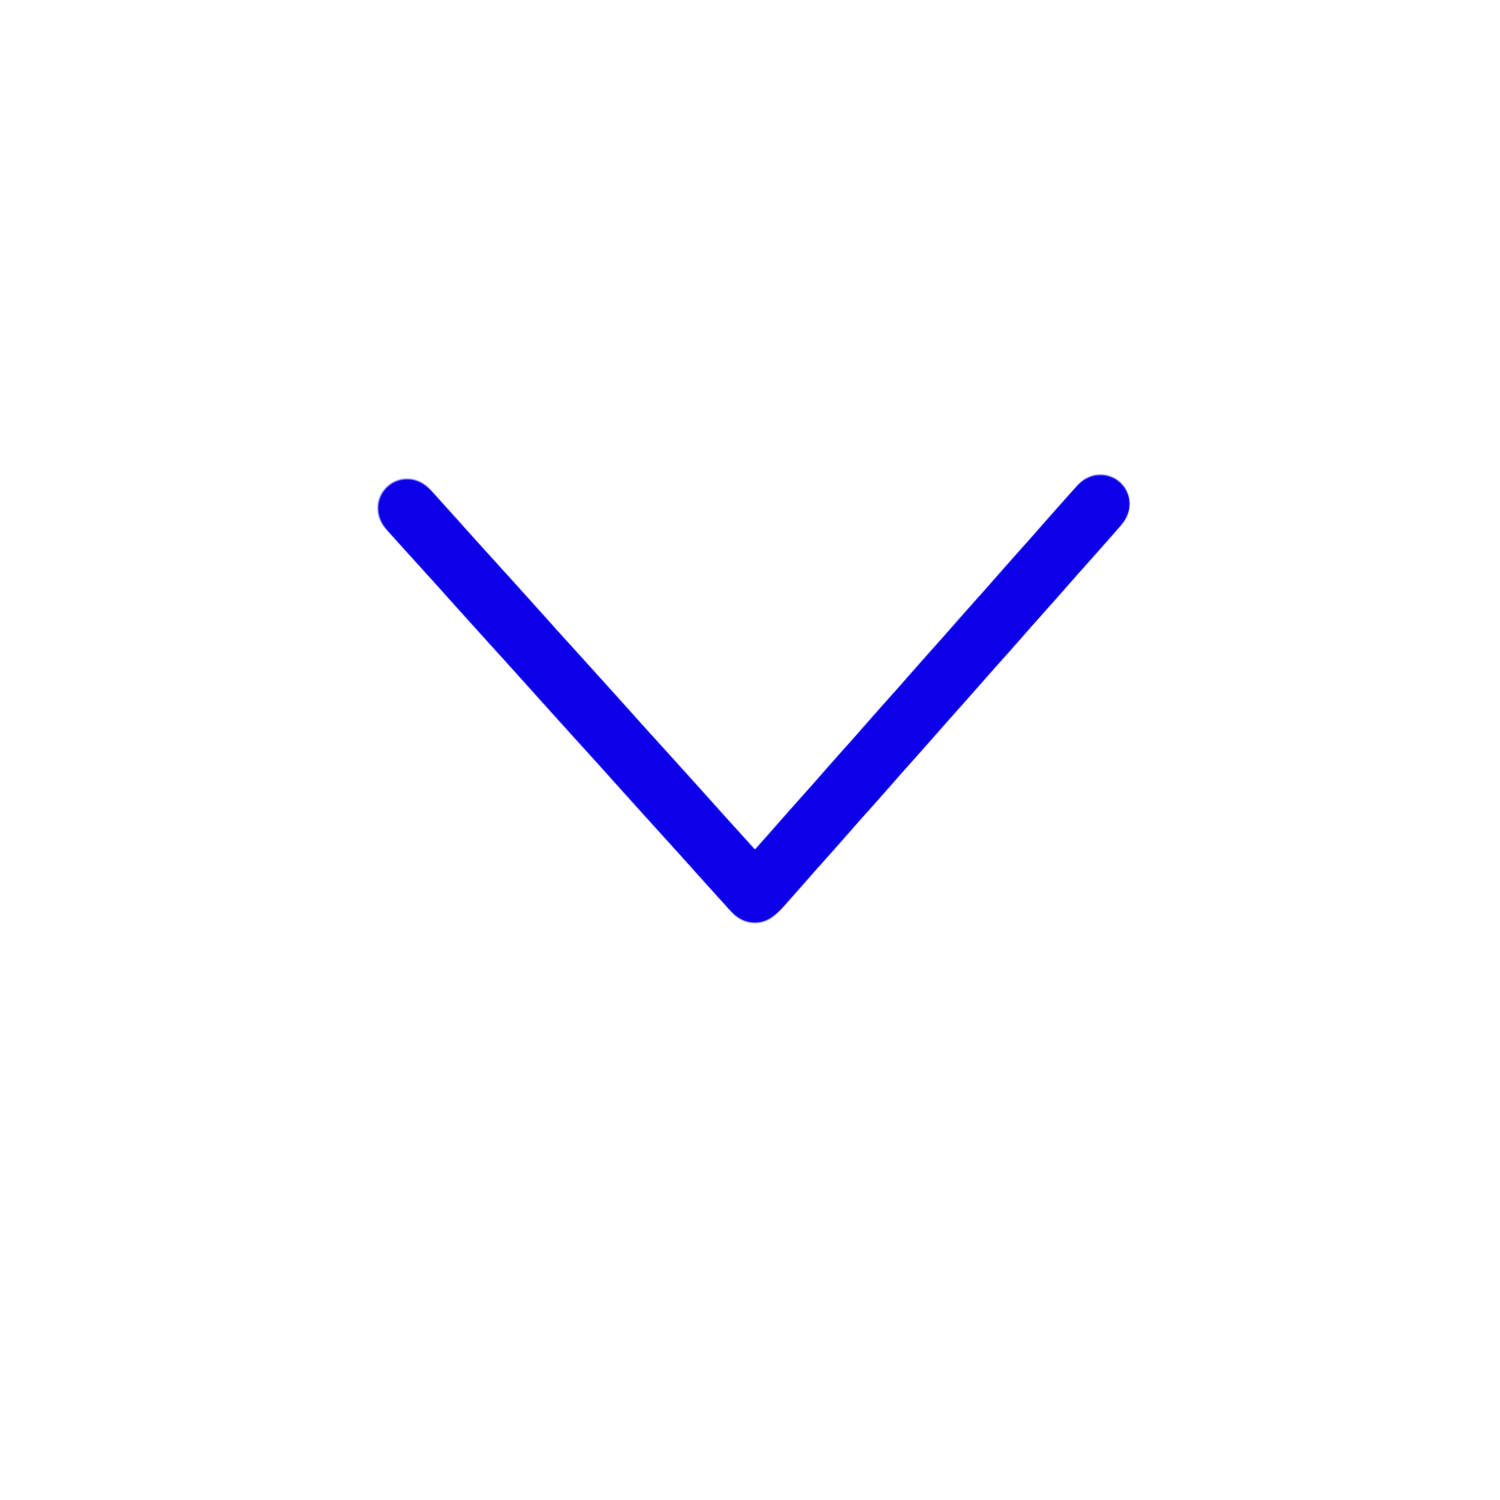
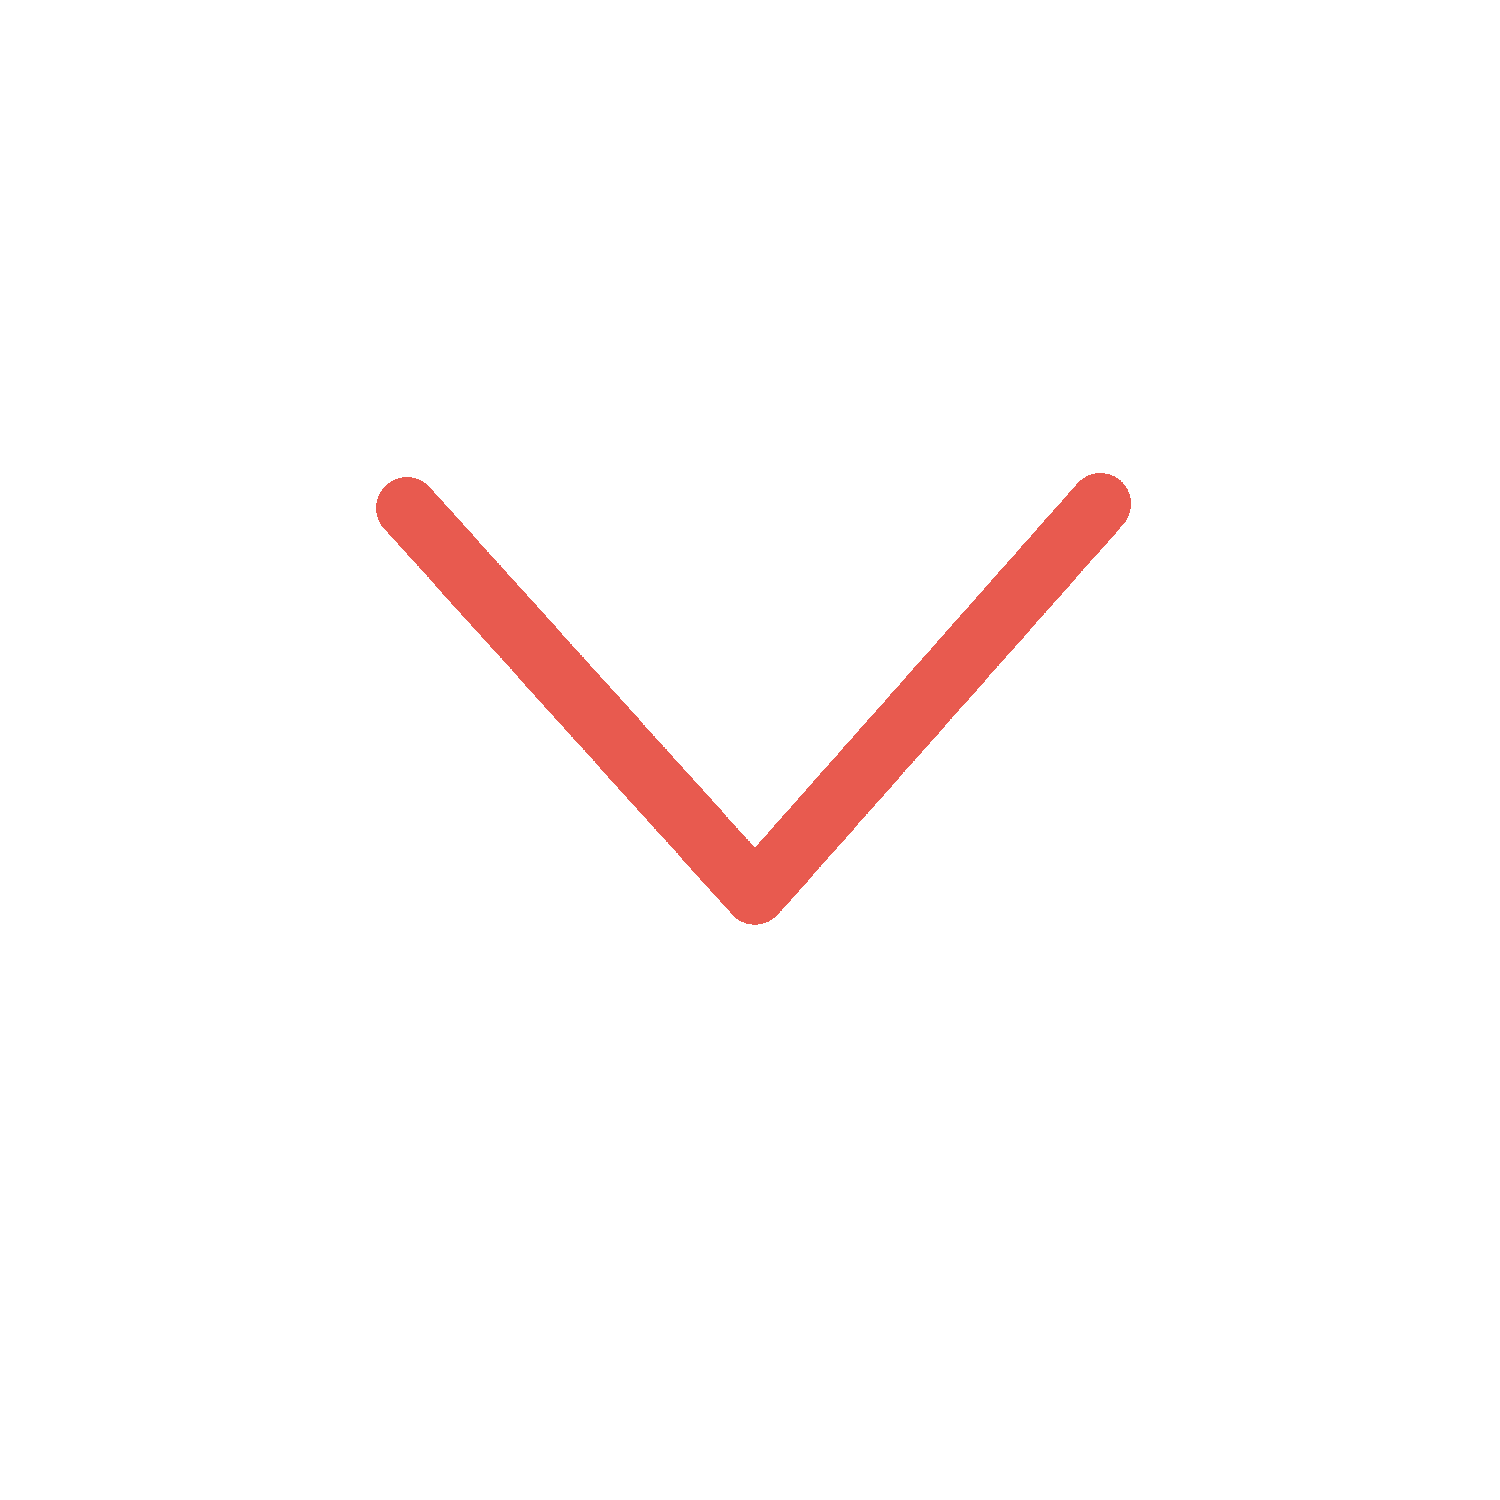
major style additions

Changed region(s): [[0.2453, 0.3067, 0.7667, 0.6133]]

diff --git a/html/main.html b/html/main.html
@@ -9,17 +9,17 @@
 <body>
 	<div class="main">
 		<div class="top-block">
-			<h1>CB MEDIA</h1>
-			<h2 style="font-style: italic; text-align: center;">Your new friend in social media</h2>
+			<h1 id="header" class="title-h1" style=";"></h1>
+			<h2 id="subheader" class="title-h2" style=";"></h2>
+			<img src="../img/arrow.png" class="arrow-img">
 		</div>
 		<div class="bar">
-			<a href="" class="bar-button"><h2 class="bar-button">Our Work</h2></a>
+			<a href="#accomplishments" class="bar-button"><h2 class="bar-button">Our Work</h2></a>
 			<a href="" class="bar-button"><h2 class="bar-button" style="font-size: 29px;">Home</h2></a>
-			<a href="" class="bar-button"><h2 class="bar-button">About Us</h2></a>
+			<a href="#about" class="bar-button"><h2 class="bar-button">About Us</h2></a>
 		</div>
-		<img src="../img/arrow.png" class="arrow-img">
-		<div class="block" style="padding-top: 4%; padding-bottom: 4%; border: 2px solid black; border-radius: 30px;">
-			<h2>Our Mission</h2>
+		<div class="block" style="padding-top: 4%; padding-bottom: 4%; border: 2px solid white; border-radius: 30px;">
+			<h2 class="block-title">Our Mission</h2>
 			<div class="mission">
 				<div style="width: 50%;">
 				<p>Connor and Brian will construct a specific plan to help you optimize your social media accounts and increase your reach to new customers and target returning customers. In addition to a specific guide, Connor will provide you with all the tips and advice that is only shared in private group chats and not found on public videos.</p>
@@ -31,42 +31,43 @@
 						<li>Social Media Consultation</li>
 						<li>Specific and personalized advice</li>
 						<li>One on One consultations</li>
-						<li>Office Hours</li>
+						<li>Open Office Hours</li>
 						<li>Referral based program</li>
 					</ul>
 				</div>
 			</div>
 		</div>
 		<div class="block">
-			<div class="meet-team">
+			<div class="meet-team" id="about">
 				<div class="member-profile">
 					<img class="profile-pic" src="../img/profile_pic.png">
 					<h3 style="margin-bottom: 5px;">Connor Flannery</h3>
-					<h3 style="margin-top: 5px; font-weight: normal">Founder. Head Consultant</h4>
+					<h4 style="margin-top: 5px; margin-bottom: 3px; font-weight: normal">Founder</h4>
+					<h4 style="margin-top: 0px; font-weight: normal;">Head Consultant</h4>
 				</div>
 				<div class="member-profile">
 					<img class="profile-pic" src="../img/profile_pic.png">
 					<h3 style="margin-bottom: 5px;">Brian Chen</h3>
-					<h3 style="margin-top: 5px; font-weight: normal;">Co Founder. Consultant & Client Relations</h4>
+					<h4 style="margin-top: 5px; margin-bottom: 3px; font-weight: normal;">Co Founder</h4>
+					<h4 style="margin-top: 0px; font-weight: normal;">Consultant & Client Relations</h4>
 				</div>
 				
 				<div>
-					<h2 style="margin-top: 0; margin-bottom: 10px;">Meet the Team</h2>
+					<h2 class="block-title" style="margin-top: 0; margin-bottom: 10px;">Meet the Team</h2>
 					<p>Founded by Connor  Flannery who has spent the last 5 years growing different social media accounts, with the primary focus on his YouTube channel with over 100 million total views</p>
 					<p>Co founded by Brian Chen, who has spent time building a sports instagram account with 30K followers, extensive experience in YouTube Automation</p>
 				</div>
 			</div>
 		</div>
 		<div class="block">
-			<div class="accomplishments">
+			<div class="accomplishments" id="accomplishments">
 				<div style="padding-right: 5%;">
-					<h2>Our Accomplishments</h2>
+					<h2 class="block-title">Our Accomplishments</h2>
 					<ul>
-						<li>100 million+ total views on longform content (harder to get than short form content) 2 million short form views</li>
-						<li>2 million short form views</li>
-						<li>Has generated $500k+ net profit from channel alone</li>
-						<li>150,000+ subscribers on joint channel; result more experience in personality based content on there</li>
-						<li>My specific consultation resulted in a shorts channel tripling their revenue give or take; testimonials</li>
+						<li>100 million+ total views on long-form content</li>
+						<li>2 million+ total views on short-form content</li>
+						<li>Generated $500k+ net profit from youtube channel alone</li>
+						<li>150,000+ subscribers on joint channel</li>
 					</ul>
 				</div>
 				<img class="profile-pic" style="transform: rotate(8deg);" src="../img/cubes.png">
@@ -76,12 +77,13 @@
 			<div class="advantages">
 				<img class="profile-pic" style="transform: rotate(-8deg);" src="../img/cubes_flipped.png">
 				<div style="padding-left: 5%;">
-					<h2>Our Advantages</h2>
+					<h2 class="block-title">Our Advantages</h2>
 					<ul>
-						<li>Network of other creators; Partners with and advised many youtube shorts channels that get anywhere from 100 million to 250 million views per MONTH</li>
-						<li>Access to the top quality and top tier short form content creators; I know 50+ people with at least 1 million followers/subscribers etc. on at least one platform</li>
-						<li>I know people that can get articles written, snapchat shows, verification, I know the spotify video team, etc.</li>
-						<li>History/presence/ established audience and time in the industry</li>
+						<li>Network of other creators</li>
+						 <li>Connections to youtube shorts channels with large audiences (100 million to 250 million views per month)</li>
+						<li>Access to the top quality and top tier short form content creators</li>
+						<li>Connections with people that can get articles written, snapchat shows, verification, etc.</li>
+						<li>Long history and presense in the industry</li>
 					</ul>
 				</div>
 			</div>

diff --git a/css/main.css b/css/main.css
@@ -5,9 +5,21 @@ html {
 }
 
 h1 {
-	font-family: 'Arvo', 'Arial';
+	font-family: 'Roboto', 'Arial';
 	text-align: center;
 	font-weight: bold;
+	color: white;
+}
+
+.title-h1 {
+	margin-bottom: 4.75%;
+	padding-left: 10%;
+	font-size: 4rem;
+	text-align: left;
+}
+
+.filler {
+	margin-bottom: 0% !important;
 }
 
 h2 {
@@ -15,20 +27,63 @@ h2 {
 	font-weight: normal;
 }
 
+.title-h2 {
+	padding-left: 10%;
+	font-style: italic; 
+	text-align: left;
+	color: var(--off-white)
+}
+
+.block-title {
+	color: white;
+	font-size: 1.8rem;
+}
+
 h3 {
 	font-family: 'Arvo', 'Arial';
 	font-weight: normal;
+	color: white;
+}
+
+h4 {
+	font-family: 'Arvo', 'Arial';
+	font-weight: normal;
+	color: white;
 }
 
 p {
 	font-family: 'Arvo', 'Arial';
 	font-weight: normal;
+	color: white;
 }
 
 ul {
-	font-family: 'Arvo', 'Arial';
+  list-style-type: none;
+  padding: 0;
+  font-family: 'Arvo', 'Arial';
 	font-weight: normal;
+	color: white;
 }
+
+ul li {
+  margin: 0 0 10px 0;
+  padding: 0 0 0 20px;
+  line-height: 1.5;
+  position: relative;
+}
+
+ul li:before {
+  content: "";
+  display: block;
+  position: absolute;
+  top: 7px;
+  left: 0;
+  width: 10px;
+  height: 10px;
+  border-radius: 50%;
+  background-color: var(--light-red);
+}
+
 
 body {
 	margin: 0;
@@ -36,10 +91,11 @@ body {
 	height: 100%;
 	padding: 1px;
 	overflow-x: hidden;
-	background-color: #fcd27e;
+	background-color: var(--dark-blue);
 }
 
 .main {
+	margin: 0;
 	width: 100%;
 }
 
@@ -57,13 +113,13 @@ body {
 	align-items: center;
 	border: 2px solid black;
 	border-radius: 5px;
-	background-color: #60add6;
+	background-color: var(--light-red);
 }
 
 .bar-button {
 	text-decoration: none;
 	transition: transform 0.3s;
-	color: #0d106e;
+	color: black;
 }
 
 .bar-button:hover {
@@ -91,7 +147,8 @@ body {
 	display: block;
 	width: 100px;
 	margin: auto;
-	transition: transform 0.3s;
+	padding-top: 10%;
+	animation: bounce 0.5s infinite alternate;
 }
 
 .arrow-img:hover {
@@ -99,12 +156,21 @@ body {
 
 }
 
+@keyframes bounce {
+  0% {
+    transform: translateY(0);
+  }
+  100% {
+    transform: translateY(-5px);
+  }
+}
+
 .top-block {
 	padding-left: auto;
 	padding-right: auto;
-	padding-top: 12%;
-	padding-bottom: 12%;
-	background-color: white;
+	padding-top: 19%;
+	padding-bottom: 2%;
+	background-color: var(--deep-blue);
 }
 
 .block {
@@ -114,6 +180,14 @@ body {
 	padding-left: 5%;
 	padding-right: 5%;
 	background-color: transparent;
+	opacity: 0;
+  transform: translateY(20px);
+  transition: opacity 0.5s ease-in-out, transform 0.5s ease-in-out;
+}
+
+.block.active {
+  opacity: 1;
+  transform: translateY(0);
 }
 
 .mission {
@@ -143,6 +217,7 @@ body {
 .profile-pic {
 	max-width: 40%;
 	height: auto;
+	border-radius: 50%;
 }
 
 .advantages {
@@ -159,11 +234,15 @@ body {
 	justify-content: center;
 }
 
+
 footer {
 	display: flex;
 	flex-direction: row;
 	align-items: center;
 	justify-content: center;
+	color: white;
+	padding: 2%;
+	background-color: var(--light-red);
 }
 	
 @font-face {
@@ -187,3 +266,30 @@ footer {
   		 url('../fonts/Arvo-Italic.ttf') format('truetype'),
   		 url('../fonts/Arvo-Regular.ttf') format('truetype');
 }
+
+:root {
+	--off-white: #EAE7DC;
+	--light-brown: #D8C3A5;
+	--grey: #8E8D8A;
+	--light-red: #E98074;
+	--red: #E85A4F;
+	--deep-blue: #0d045e;
+	--dark-blue: #090142;
+}
+
+#header:after {
+  content: '|';
+  animation: blink .5s infinite alternate;
+}
+
+@keyframes blink {
+  from {
+    opacity: 1;
+  }
+  to {
+    opacity: 0;
+  }
+}
+
+
+

diff --git a/javascript/main.js b/javascript/main.js
@@ -4,3 +4,63 @@ var image = document.querySelector('.arrow-img');
 image.addEventListener('click', function() {
   window.scrollTo(0, 800);
 });
+
+const header = document.getElementById("header");
+const subheader = document.getElementById("subheader");
+const text = "This is CB Media:";
+let index = 0;
+
+function type() {
+  header.innerHTML += text[index];
+  index++;
+  if (index == text.length) {
+    header.innerHTML = text;
+    setTimeout(function() {
+      subheader.style.display = "block";
+      subheader.innerHTML = "";
+      typeSubheader();
+    }, 500);
+  } else {
+    setTimeout(type, 100);
+  }
+}
+
+function typeSubheader() {
+  const subtext = "We make you seen on the internet.";
+  let subIndex = 0;
+
+  function subType() {
+    subheader.innerHTML += subtext[subIndex];
+    subIndex++;
+    if (subIndex == subtext.length) {
+      subheader.innerHTML = subtext;
+    } else {
+      setTimeout(subType, 50);
+    }
+  }
+  header.classList.add('filler');
+  subType();
+}
+
+type();
+
+
+const slideInElements = document.querySelectorAll('.block');
+
+const slideInOptions = {
+  threshold: 0.5,
+  rootMargin: '-50px 0px -50px 0px'
+};
+
+const slideInObserver = new IntersectionObserver((entries, observer) => {
+  entries.forEach(entry => {
+    if (entry.isIntersecting) {
+      entry.target.classList.add('active');
+      observer.unobserve(entry.target);
+    }
+  });
+}, slideInOptions);
+
+slideInElements.forEach(element => {
+  slideInObserver.observe(element);
+});

diff --git a/html/contact.html b/html/contact.html
@@ -7,6 +7,11 @@
 	<title>CB Media</title>
 </head>
 <body>
-	<div>HELLO</div>
+	<div>
+		
+	</div>
+	<div>
+		
+	</div>
 </body>
 </html>
